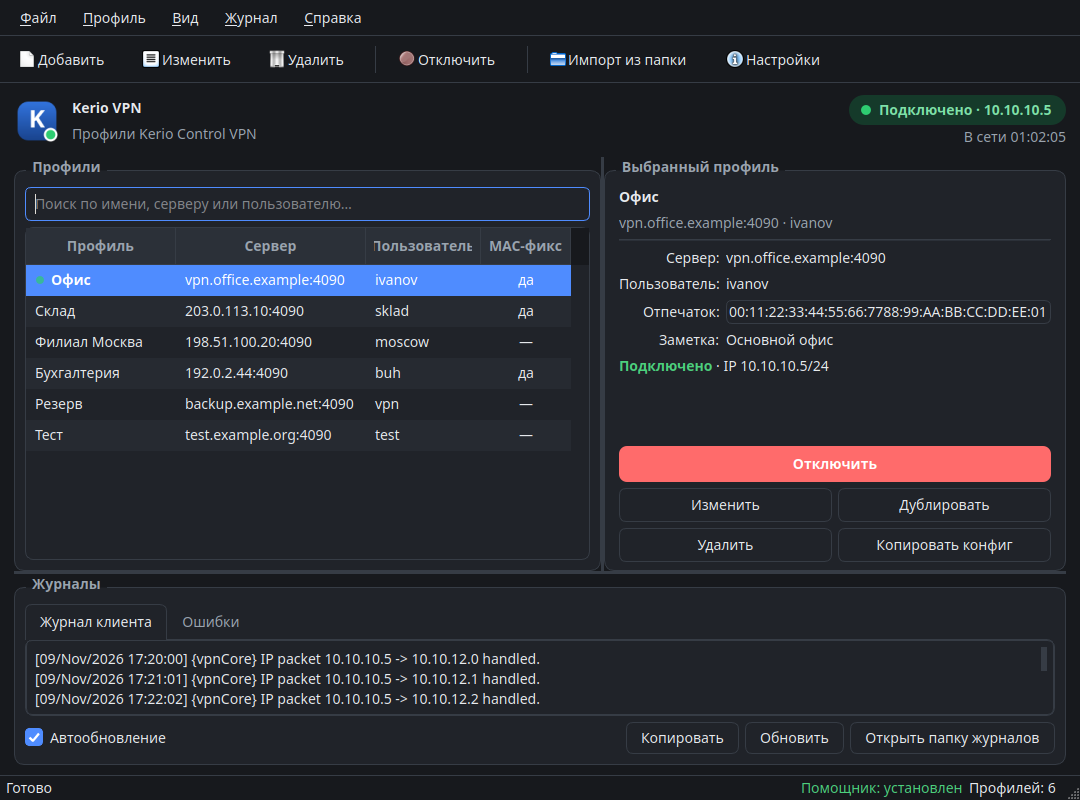
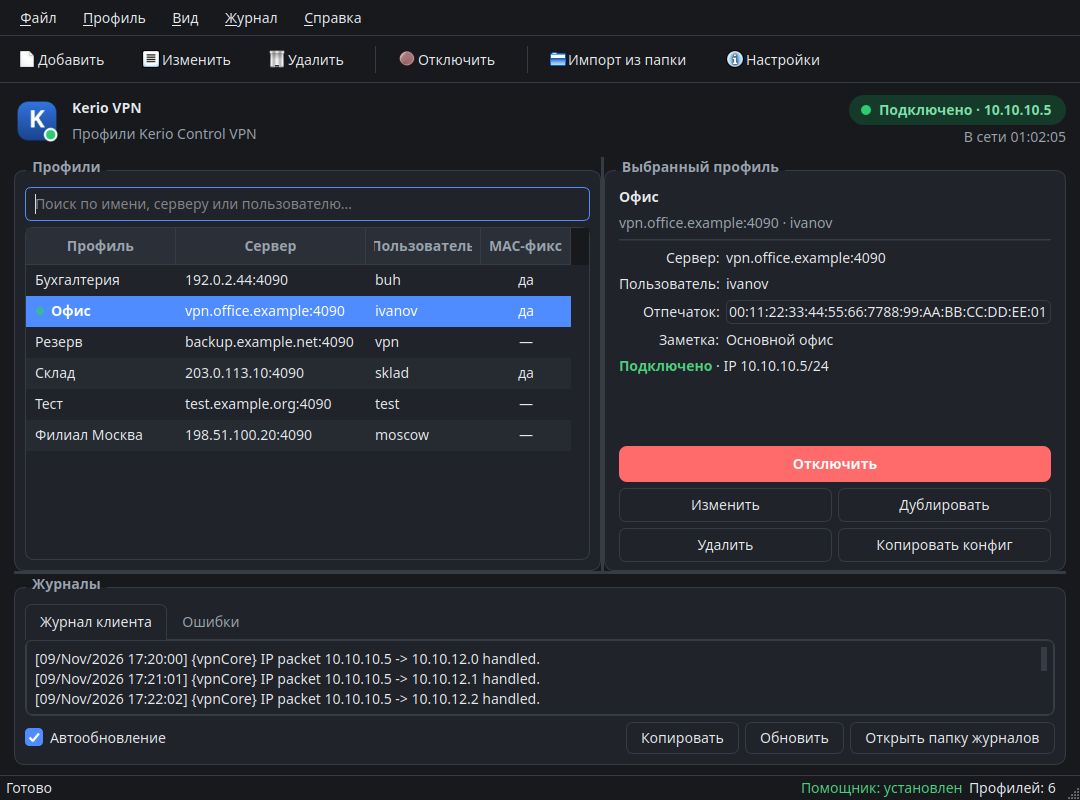
Сортировка профилей по алфавиту и название подключения в трее (1.2.10)

Changed region(s): [[0.0, 0.3125, 0.55, 0.5625], [0.1528, 0.5, 0.3972, 0.5625]]

diff --git a/kerio_vpn_gui/ui.py b/kerio_vpn_gui/ui.py
@@ -4,10 +4,13 @@ from __future__ import annotations
 
 import html
 import traceback
+from functools import cmp_to_key
 from pathlib import Path
 from typing import Optional
 
 from PyQt5.QtCore import (
+    QCollator,
+    QLocale,
     QPointF,
     QRectF,
     QSettings,
@@ -886,6 +889,7 @@ class MainWindow(QMainWindow):
         self._worker: Optional[Worker] = None
         self._fetch_worker: Optional[Worker] = None
         self._active_profile_id: Optional[str] = None
+        self._active_connection: Optional[backend.ActiveConnection] = None
         self._running = False
         self._connected = False
         self._tunnel = None
@@ -907,6 +911,10 @@ class MainWindow(QMainWindow):
         self._icon_disconnected = make_app_icon(False, False)
         self._dot_green = dot_icon(ICON_COLORS["connected"])
         self._dot_yellow = dot_icon(ICON_COLORS["connecting"])
+        self._profile_collator = QCollator()
+        self._profile_collator.setCaseSensitivity(Qt.CaseInsensitive)
+        self._profile_collator.setNumericMode(True)
+        self._profile_collator.setLocale(QLocale.system())
 
         self._build_actions()
         self._build_ui()
@@ -1488,6 +1496,18 @@ class MainWindow(QMainWindow):
         QDesktopServices.openUrl(QUrl.fromLocalFile(str(LOGS_DIR)))
 
     # -- таблица профилей --------------------------------------------------
+    def _compare_profiles(self, first: Profile, second: Profile) -> int:
+        result = self._profile_collator.compare(first.name, second.name)
+        if result:
+            return result
+        result = self._profile_collator.compare(first.server, second.server)
+        if result:
+            return result
+        return self._profile_collator.compare(first.username, second.username)
+
+    def _sorted_profiles(self, profiles) -> list[Profile]:
+        return sorted(profiles, key=cmp_to_key(self._compare_profiles))
+
     def _refresh_table(self) -> None:
         selected = self._selected_profile()
         selected_id = selected.id if selected else None
@@ -1501,6 +1521,7 @@ class MainWindow(QMainWindow):
             or query in profile.username.casefold()
             or query in profile.endpoint.casefold()
         ]
+        visible = self._sorted_profiles(visible)
         self.table.blockSignals(True)
         self.table.setRowCount(len(visible))
         for row, profile in enumerate(visible):
@@ -1538,6 +1559,7 @@ class MainWindow(QMainWindow):
         self._update_active_marker()
         self._update_details()
         self._rebuild_tray_menu()
+        self._update_tray_tooltip()
 
     def _selected_profile(self) -> Optional[Profile]:
         row = self.table.currentRow()
@@ -1705,6 +1727,7 @@ class MainWindow(QMainWindow):
             else None
         )
         self._active_profile_id = active_profile.id if active_profile else None
+        self._active_connection = active
 
         self._running = running
         self._connected = connected
@@ -1751,17 +1774,7 @@ class MainWindow(QMainWindow):
         self.header_icon.setPixmap(icon.pixmap(46, 46))
         if self.tray is not None:
             self.tray.setIcon(icon)
-            if self._busy:
-                pass
-            elif connected and tunnel is not None:
-                name = active_profile.name if active_profile else "VPN"
-                self.tray.setToolTip(
-                    f"{APP_NAME}: подключено\n{name}\nIP {tunnel.ip}"
-                )
-            elif running:
-                self.tray.setToolTip(f"{APP_NAME}: служба запущена, туннель не поднят")
-            else:
-                self.tray.setToolTip(f"{APP_NAME}: не подключено")
+        self._update_tray_tooltip()
 
         self.act_disconnect.setEnabled(running and not self._busy)
         self._update_active_marker()
@@ -1794,11 +1807,37 @@ class MainWindow(QMainWindow):
             else:
                 self._show_window()
 
+    def _active_connection_name(self) -> str:
+        if self._active_profile_id:
+            profile = self.store.get(self._active_profile_id)
+            if profile is not None:
+                return profile.name
+        if self._active_connection is not None:
+            return self._active_connection.server
+        return "VPN"
+
+    def _update_tray_tooltip(self) -> None:
+        if self.tray is None:
+            return
+        if self._busy:
+            self.tray.setToolTip(f"{APP_NAME}\nВыполняется…")
+            return
+        name = self._active_connection_name()
+        if self._connected and self._tunnel is not None:
+            self.tray.setToolTip(
+                f"{name} — {APP_NAME}\nПодключено · {self._tunnel.ip}"
+            )
+        elif self._running:
+            self.tray.setToolTip(f"{name} — {APP_NAME}\nПодключение…")
+        else:
+            self.tray.setToolTip(f"{APP_NAME}\nНе подключено")
+
     def _rebuild_tray_menu(self) -> None:
         if self.tray is None:
             return
+        sorted_profiles = self._sorted_profiles(self.store.profiles)
         signature = (
-            tuple((profile.id, profile.name) for profile in self.store.profiles),
+            tuple((profile.id, profile.name) for profile in sorted_profiles),
             self._active_profile_id,
             self._connected,
             self._running,
@@ -1835,10 +1874,10 @@ class MainWindow(QMainWindow):
         menu.addSeparator()
 
         connect_menu = menu.addMenu("Подключиться")
-        if not self.store.profiles:
+        if not sorted_profiles:
             empty = connect_menu.addAction("Нет профилей")
             empty.setEnabled(False)
-        for profile in self.store.profiles:
+        for profile in sorted_profiles:
             action = QAction(profile.name, connect_menu)
             action.setCheckable(True)
             action.setChecked(profile.id == self._active_profile_id and self._connected)
@@ -1888,6 +1927,7 @@ class MainWindow(QMainWindow):
         for action in (self.act_edit, self.act_duplicate, self.act_delete, self.act_connect):
             action.setEnabled(not busy and self._selected_profile() is not None)
         self._update_details()
+        self._update_tray_tooltip()
         if not busy:
             self._refresh_status()
 

diff --git a/kerio_vpn_gui/core.py b/kerio_vpn_gui/core.py
@@ -20,7 +20,7 @@ from typing import Any, Iterable, Optional
 
 APP_ID = "kerio-vpn-gui"
 APP_NAME = "Kerio VPN"
-APP_VERSION = "1.2.9"
+APP_VERSION = "1.2.10"
 # Нейтральный каталог по умолчанию. Реальный путь пользователь выбирает
 # в диалоге импорта; после первого импорта он сохраняется в настройках.
 DEFAULT_IMPORT_DIR = str(Path.home() / "kerio")

diff --git a/README.md b/README.md
@@ -8,6 +8,7 @@
 
 - Добавление, редактирование, дублирование и удаление профилей подключения.
 - Поиск по профилям (имя, сервер, пользователь) при большом списке.
+- Сортировка профилей по алфавиту; после переименования профиль автоматически перемещается на новую позицию.
 - Изменяемая ширина колонок списка профилей — ширина запоминается между запусками.
 - Хранение профилей в `~/.config/kerio-vpn-gui/profiles.json` (права `0600`).
 - Импорт уже существующих конфигураций из каталога со старыми `*.conf` + `*.sh` (например, `/path/to/kerio_config`) и из `*.conf` по отдельности.
@@ -19,6 +20,7 @@
 - Индикатор состояния, IP-адрес и MAC туннеля, время соединения.
 - Журнал клиента и журнал ошибок с автообновлением.
 - Иконка в системном трее с быстрым подключением к любому профилю.
+- В подсказке иконки в трее отображается название текущего подключения.
 - Автозапуск при входе в систему (опционально).
 - Единственный экземпляр приложения: повторный запуск показывает уже открытое окно.
 - Современное оформление: светлая, тёмная или автоматическая тема как в системе.
